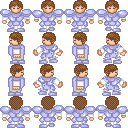
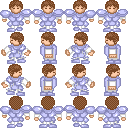
move well

diff --git a/main.py b/main.py
@@ -48,6 +48,41 @@ class Layer(GridLayout):
         self.add_widget(image)
         return image
 
+class Hero:
+    color = 'blue'
+    key = 'down'
+    old_pos = (0, 0)
+    pos = (0, 0)
+
+    def __init__(self, row, col, **kwargs):
+        self.row = row
+        self.col = col
+
+    #将key转换为具体方向
+    @property
+    def direction(self):
+        key_map = {
+            'up': (-1, 0),
+            'down': (1, 0),
+            'left': (0, -1),
+            'right': (0, 1)
+        }
+        return key_map.get(self.key, (0, 0))
+
+    @property
+    def name(self):
+        return 'hero-{}-{}'.format(self.color, self.key)
+
+    #移动到的位置
+    def move_pos(self):
+        x1, y1 = self.pos
+        x2, y2 = self.direction
+        return (x1 + x2, y1 + y2)
+
+    def move(self, pos):
+        self.old_pos = self.pos
+        self.pos = pos
+
 
 class Layout(FocusBehavior, FloatLayout):
     row = MazeSetting.rows + 2
@@ -72,23 +107,19 @@ class Layout(FocusBehavior, FloatLayout):
                 self.middle.add(i, j)
                 self.back.add(i, j, Cache.next('ground'))
 
+        self.hero = Hero(self.row, self.col)
         self.floor = 1
-        self.pos = (5, 5)
-        self.color = 'blue'
-        self.key = 'down'
-        self.focused = True
-        Clock.schedule_interval(self.show, 0.25)
+        self.focus = True
+        Clock.schedule_interval(self.show, 0.20)
 
     def keyboard_on_key_down(self, window, keycode, text, modifiers):
-        print(keycode)
         key = keycode[1]
         if key not in ('up', 'down', 'left', 'right'):
             return False
         self.move(key)
         return True
-    
+
     def on_touch_down(self, touch):
-        print(touch)
         if self.maze.is_boss_floor(self.floor):
             self.maze.update()
         self.floor += 1
@@ -96,33 +127,36 @@ class Layout(FocusBehavior, FloatLayout):
             return True
         super(Layout, self).on_touch_down(touch)
 
-    def move(self, key):
-        if key == 'up':
-            move = (1, 0)
-        elif key == 'down':
-            move = (1, 0)
-        elif key == 'left':
-            move = (1, 0)
-        elif key == 'right':
-            move = (1, 0)
-        else:
-            move = (0, 0)
-        
-        x, y = move
-        x_before, y_before = self.pos
-        x_after, y_after = (x_before + x, y_before + y)
-        self.pos = (x_before + x, y_before + y)
-        
-        self.front.image[x_before][y_before].texture = Cache.next('empty')
-        
 
+    def moveimage(self):
+        texture = Cache.next(self.hero.name, 'action')
+        if not texture:
+            return
+        x, y = self.hero.old_pos
+        image = self.front.image[x][y]
+        image.texture = Cache.next('empty')
+
+        x, y = self.hero.pos
+        image = self.front.image[x][y]
+        image.texture = texture
+
+    def ismove(self, pos):
+        x, y = pos
+        if x < 0 or x >= self.col or y < 0 or y >= self.row:
+            return False
+        return True
+
+    def move(self, key):
+        self.hero.key = key
+        pos = self.hero.move_pos()
+        if self.ismove(pos):
+            self.hero.move(pos)
+        Cache.reset(self.hero.name)
+        self.moveimage()
 
     def show(self, dt):
         floor = self.floor
-        hero_image = self.front.image[self.pos[0]][self.pos[1]]
-        hero_image.texture = Cache.next('hero-{}-{}'.format(self.color, self.key), 'action')
-        if not hero_image.texture:
-            hero_image.texture = Cache.next('hero-{}-{}'.format(self.color, self.key))
+        self.moveimage()
         for i in range(self.row):
             for j in range(self.col):
                 pos_type = self.maze.get_type((floor, i, j))

diff --git a/cache.py b/cache.py
@@ -112,6 +112,17 @@ class CacheBase:
 
                 self.config[key] = val
 
+    def reset(self, key):
+        if key not in self.config:
+            print(key)
+            return None
+
+        info = self.config[key]
+        if 'dynamic_index' in info:
+            info['dynamic_index'] = 0
+        if 'action_index' in info:
+            info['action_index'] = 0
+
     def next(self, key, style='static'):
         if key not in self.config:
             print(key)
@@ -121,8 +132,6 @@ class CacheBase:
         textures_name = '{}_textures'.format(style)
         textures = info[textures_name]
         if style == 'static':
-            if 'action_index' in info:
-                info['action_index'] = 0
             return textures
 
         index_name = '{}_index'.format(style)

diff --git a/maze.py b/maze.py
@@ -326,12 +326,6 @@ class MonsterInfo:
 
 
 class Pos:
-    class Move:
-        up = (1, 0)
-        down = (-1, 0)
-        left = (0, 1)
-        right = (0, -1)
-
     @staticmethod
     def inside(pos):
         z, x, y = pos
@@ -413,7 +407,6 @@ class HeroBase:
 class HeroState:
     def __init__(self, herobase):
         self.pos = (0, 0, 0)
-        self.direction = Pos.Move.down
         self.floor = herobase.floor
         self.health = herobase.health
         self.attack = herobase.attack
